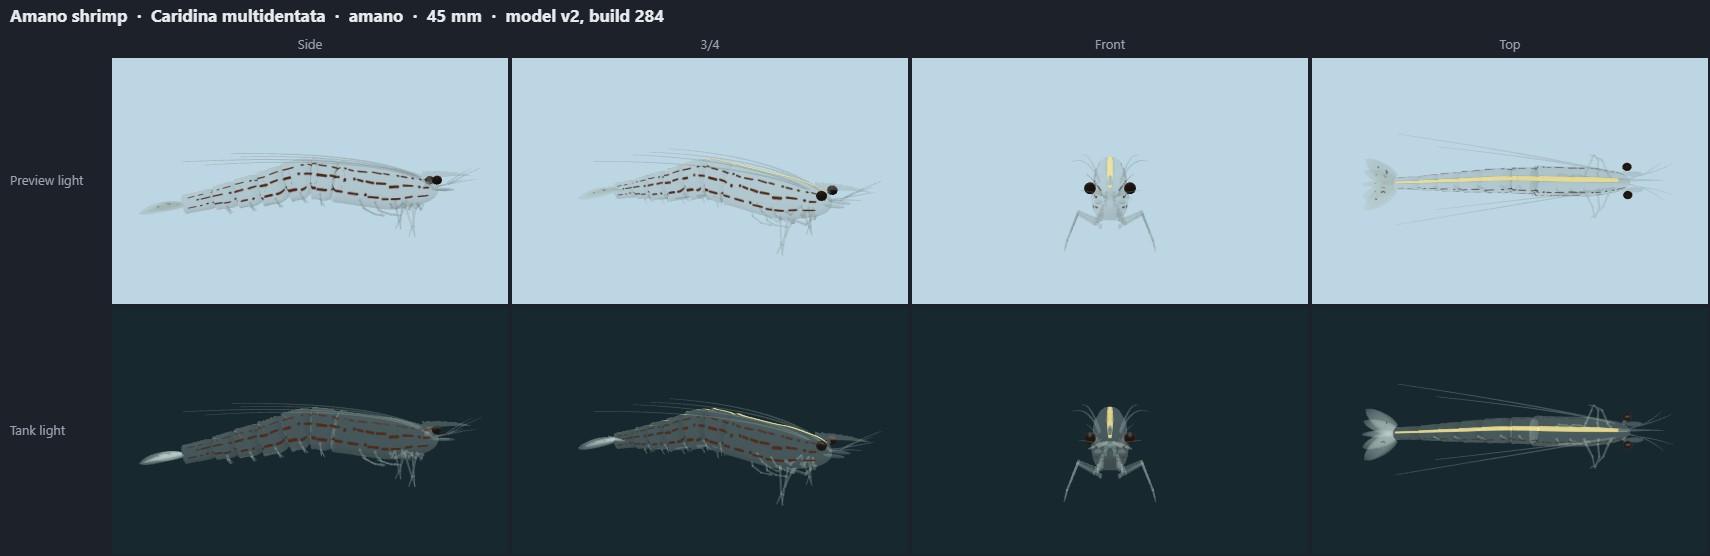
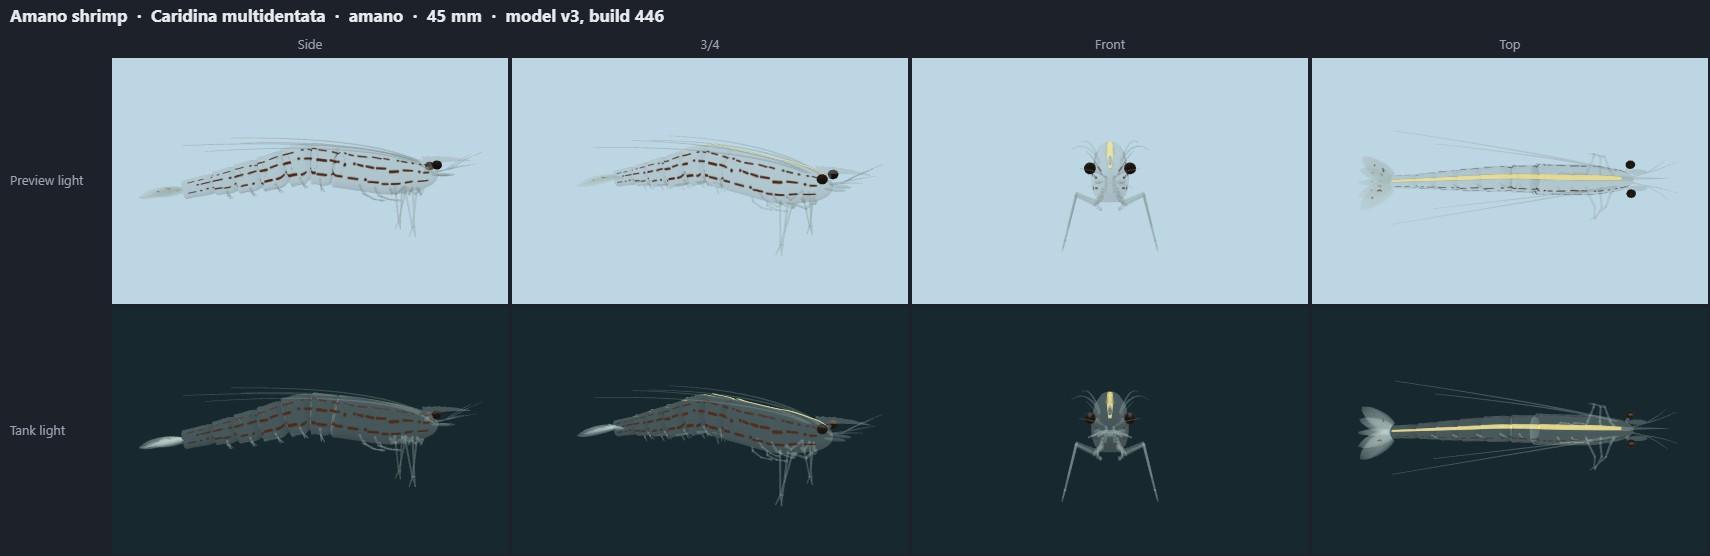
Shrimp stand up on their legs: per-species body lift (cherry 0.035, amano 0.045, cleaner 0.08 widths), walking legs reach down the extra; cleaner's legs splay wider (build 446)

diff --git a/public/model-sheets/index.html b/public/model-sheets/index.html
@@ -10,7 +10,7 @@ figure { margin: 8px 0 14px; padding: 8px; background: var(--panel); border-radi
 img { display: block; max-width: 100%; height: auto }
 </style></head><body>
 <h1>Model sheets</h1>
-<p>Pre-rendered review images of every TankLook animal model (no WebGL needed): 71 models, 58 species, written at build 435.
+<p>Pre-rendered review images of every TankLook animal model (no WebGL needed): 71 models, 58 species, written at build 446.
 Each sheet shows the Side, 3/4, Front, Top views; top row in the plain preview light, bottom row at true size in the default tank's LED light and water.
 Click a sheet for the full-size image (1710 × 556 px). Interactive version: <a href="../review.html">review.html</a>.</p>
 <h2>Freshwater fish</h2>
@@ -62,8 +62,8 @@ Click a sheet for the full-size image (1710 × 556 px). Interactive version: <a 
 <figure id="peapuffer"><figcaption><b>Pea puffer ♂</b> · <i>Carinotetraodon travancoricus</i> · peapuffer · 30 mm · model v2 (build 351, 2026-10-14)</figcaption><a href="peapuffer.jpg"><img src="peapuffer.jpg" width="1710" height="556" loading="lazy" alt="Pea puffer ♂ (Carinotetraodon travancoricus), model v2: Side, 3/4, Front, Top views, preview light (top row) and tank light (bottom row)"></a></figure>
 <figure id="peapuffer-f"><figcaption><b>Pea puffer ♀</b> · <i>Carinotetraodon travancoricus</i> · peapuffer~f · 30 mm · model v2 (build 351, 2026-10-14)</figcaption><a href="peapuffer-f.jpg"><img src="peapuffer-f.jpg" width="1710" height="556" loading="lazy" alt="Pea puffer ♀ (Carinotetraodon travancoricus), model v2: Side, 3/4, Front, Top views, preview light (top row) and tank light (bottom row)"></a></figure>
 <h2>Freshwater inverts</h2>
-<figure id="cherryshrimp"><figcaption><b>Cherry shrimp</b> · <i>Neocaridina davidi</i> · cherryshrimp · 30 mm · model v2 (build 284, 2026-10-14)</figcaption><a href="cherryshrimp.jpg"><img src="cherryshrimp.jpg" width="1710" height="556" loading="lazy" alt="Cherry shrimp (Neocaridina davidi), model v2: Side, 3/4, Front, Top views, preview light (top row) and tank light (bottom row)"></a></figure>
-<figure id="amano"><figcaption><b>Amano shrimp</b> · <i>Caridina multidentata</i> · amano · 45 mm · model v2 (build 284, 2026-10-14)</figcaption><a href="amano.jpg"><img src="amano.jpg" width="1710" height="556" loading="lazy" alt="Amano shrimp (Caridina multidentata), model v2: Side, 3/4, Front, Top views, preview light (top row) and tank light (bottom row)"></a></figure>
+<figure id="cherryshrimp"><figcaption><b>Cherry shrimp</b> · <i>Neocaridina davidi</i> · cherryshrimp · 30 mm · model v3 (build 446, 2026-10-15)</figcaption><a href="cherryshrimp.jpg"><img src="cherryshrimp.jpg" width="1710" height="556" loading="lazy" alt="Cherry shrimp (Neocaridina davidi), model v3: Side, 3/4, Front, Top views, preview light (top row) and tank light (bottom row)"></a></figure>
+<figure id="amano"><figcaption><b>Amano shrimp</b> · <i>Caridina multidentata</i> · amano · 45 mm · model v3 (build 446, 2026-10-15)</figcaption><a href="amano.jpg"><img src="amano.jpg" width="1710" height="556" loading="lazy" alt="Amano shrimp (Caridina multidentata), model v3: Side, 3/4, Front, Top views, preview light (top row) and tank light (bottom row)"></a></figure>
 <figure id="nerite"><figcaption><b>Nerite snail (zebra)</b> · <i>Neritina natalensis</i> · nerite · 25 mm · model v3 (build 317, 2026-10-14)</figcaption><a href="nerite.jpg"><img src="nerite.jpg" width="1710" height="556" loading="lazy" alt="Nerite snail (zebra) (Neritina natalensis), model v3: Side, 3/4, Front, Top views, preview light (top row) and tank light (bottom row)"></a></figure>
 <figure id="mystery"><figcaption><b>Mystery snail</b> · <i>Pomacea diffusa</i> · mystery · 55 mm · model v2 (build 288, 2026-10-14)</figcaption><a href="mystery.jpg"><img src="mystery.jpg" width="1710" height="556" loading="lazy" alt="Mystery snail (Pomacea diffusa), model v2: Side, 3/4, Front, Top views, preview light (top row) and tank light (bottom row)"></a></figure>
 <figure id="ramshorn"><figcaption><b>Ramshorn snail</b> · <i>Planorbella duryi</i> · ramshorn · 20 mm · model v2 (build 288, 2026-10-14)</figcaption><a href="ramshorn.jpg"><img src="ramshorn.jpg" width="1710" height="556" loading="lazy" alt="Ramshorn snail (Planorbella duryi), model v2: Side, 3/4, Front, Top views, preview light (top row) and tank light (bottom row)"></a></figure>
@@ -79,7 +79,7 @@ Click a sheet for the full-size image (1710 × 556 px). Interactive version: <a 
 <figure id="coralbeauty"><figcaption><b>Coral beauty angelfish</b> · <i>Centropyge bispinosa</i> · coralbeauty · 90 mm · model v2 (build 348, 2026-10-14)</figcaption><a href="coralbeauty.jpg"><img src="coralbeauty.jpg" width="1710" height="556" loading="lazy" alt="Coral beauty angelfish (Centropyge bispinosa), model v2: Side, 3/4, Front, Top views, preview light (top row) and tank light (bottom row)"></a></figure>
 <figure id="watchman"><figcaption><b>Yellow watchman goby</b> · <i>Cryptocentrus cinctus</i> · watchman · 90 mm · model v2 (build 348, 2026-10-14)</figcaption><a href="watchman.jpg"><img src="watchman.jpg" width="1710" height="556" loading="lazy" alt="Yellow watchman goby (Cryptocentrus cinctus), model v2: Side, 3/4, Front, Top views, preview light (top row) and tank light (bottom row)"></a></figure>
 <h2>Saltwater inverts</h2>
-<figure id="cleanershrimp"><figcaption><b>Skunk cleaner shrimp</b> · <i>Lysmata amboinensis</i> · cleanershrimp · 55 mm · model v2 (build 284, 2026-10-14)</figcaption><a href="cleanershrimp.jpg"><img src="cleanershrimp.jpg" width="1710" height="556" loading="lazy" alt="Skunk cleaner shrimp (Lysmata amboinensis), model v2: Side, 3/4, Front, Top views, preview light (top row) and tank light (bottom row)"></a></figure>
+<figure id="cleanershrimp"><figcaption><b>Skunk cleaner shrimp</b> · <i>Lysmata amboinensis</i> · cleanershrimp · 55 mm · model v3 (build 446, 2026-10-15)</figcaption><a href="cleanershrimp.jpg"><img src="cleanershrimp.jpg" width="1710" height="556" loading="lazy" alt="Skunk cleaner shrimp (Lysmata amboinensis), model v3: Side, 3/4, Front, Top views, preview light (top row) and tank light (bottom row)"></a></figure>
 <figure id="turbo"><figcaption><b>Mexican turbo snail</b> · <i>Turbo fluctuosus</i> · turbo · 50 mm · model v2 (build 288, 2026-10-14)</figcaption><a href="turbo.jpg"><img src="turbo.jpg" width="1710" height="556" loading="lazy" alt="Mexican turbo snail (Turbo fluctuosus), model v2: Side, 3/4, Front, Top views, preview light (top row) and tank light (bottom row)"></a></figure>
 <figure id="hermit"><figcaption><b>Blue-leg hermit crab</b> · <i>Clibanarius tricolor</i> · hermit · 30 mm · model v3 (build 297, 2026-10-14)</figcaption><a href="hermit.jpg"><img src="hermit.jpg" width="1710" height="556" loading="lazy" alt="Blue-leg hermit crab (Clibanarius tricolor), model v3: Side, 3/4, Front, Top views, preview light (top row) and tank light (bottom row)"></a></figure>
 <h2>Amphibians</h2>

diff --git a/src/art/shrimps.ts b/src/art/shrimps.ts
@@ -11,6 +11,7 @@ export interface Shrimp3D {
   hump: number;   // abdominal bend: 0 straight .. 1 strongly arched with the tail carried low (cleaner)
   deep: number;   // body depth x the default
   legL: number;   // walking-leg spread x the default (long, stilted legs > 1)
+  stand: number;  // body carried this far (widths) above the default ride height on longer legs
   ant: number;    // antenna length x the default
   glass?: number; // body and limb opacity (translucent shrimp)
   leg: string; antC: string; eye: string;
@@ -46,7 +47,7 @@ function blade(x: CanvasRenderingContext2D, W: number, H: number, c: string, a: 
 export const SHRIMP3D: Record<string, Shrimp3D> = {
   // cherry shrimp (Neocaridina davidi, red): solid deep red, a little paler and clearer low on the flanks, mottled
   cherryshrimp: {
-    rost: 0.085, up: 0.004, hump: 0.45, deep: 1, legL: 1, ant: 1, leg: '#b02a2c', antC: '#a03030', eye: '#140c0a',
+    rost: 0.085, up: 0.004, hump: 0.45, deep: 1, legL: 1, stand: 0.035, ant: 1, leg: '#b02a2c', antC: '#a03030', eye: '#140c0a',
     skin: (x, W, H) => {
       bands(x, W, H, [[0, '#9a161c'], [0.35, '#b8242a'], [0.75, '#cc3c40'], [1, '#d65a5c']]);
       mottle(x, W, H, 31, 260, 5, ['#8a1218', '#d8484c', '#e06a66'], 0.25);
@@ -56,7 +57,7 @@ export const SHRIMP3D: Record<string, Shrimp3D> = {
   // Amano (Caridina multidentata): a translucent grey-green glass body, a pale line down the back and rows of broken
   // red-brown dashes and dots along the flanks
   amano: {
-    rost: 0.1, up: 0.012, hump: 0.4, deep: 0.92, legL: 1, ant: 1.05, glass: 0.32, leg: '#8a9694', antC: '#7a8684', eye: '#18120e',
+    rost: 0.1, up: 0.012, hump: 0.4, deep: 0.92, legL: 1.05, stand: 0.045, ant: 1.05, glass: 0.32, leg: '#8a9694', antC: '#7a8684', eye: '#18120e',
     skin: (x, W, H) => bands(x, W, H, [[0, '#7e8a88'], [0.5, '#98a4a2'], [1, '#b0b8b4']]),
     marks: (x, W, H) => {
       const R = rng(7);
@@ -79,7 +80,7 @@ export const SHRIMP3D: Record<string, Shrimp3D> = {
   // broad red band each side of it, yellow-orange flanks; long white antennae; red tail fan with white spots; the
   // abdomen arched, the tail carried low
   cleanershrimp: {
-    rost: 0.07, up: 0.006, hump: 1, deep: 1.05, legL: 1.2, ant: 1.35, leg: '#e0603a', antC: '#f4f2ea', eye: '#120c0a',
+    rost: 0.07, up: 0.006, hump: 1, deep: 1.05, legL: 1.3, stand: 0.08, ant: 1.35, leg: '#e0603a', antC: '#f4f2ea', eye: '#120c0a',
     skin: (x, W, H) => {
       bands(x, W, H, [[0, '#f6f4ee'], [0.05, '#f6f4ee'], [0.075, '#c42a20'], [0.38, '#c8281e'], [0.5, '#e08a30'], [0.62, '#eca838'], [1, '#f2be58']]);
       mottle(x, W, H, 41, 120, 4, ['#d8a040', '#f0c060'], 0.2);

diff --git a/src/render/shrimp3d.ts b/src/render/shrimp3d.ts
@@ -4,7 +4,8 @@
 // stalked eyes, antennules and long antennae; five pairs of jointed walking legs under the carapace (the first two
 // small, carried forward), five pairs of small biramous swimmerets under the abdomen; and a flat tail fan (telson and
 // two uropods each side) spread horizontally. Species data and paint: art/shrimps.ts. Unit frame as a fish card:
-// width 1, x = u - 0.5 (head at +x, the rostrum tip at x = 0.5), y up, z to the side; the legs stand on y = -REST.
+// width 1, x = u - 0.5 (head at +x, the rostrum tip at x = 0.5), y up, z to the side; the legs stand on y = -REST,
+// the body carried s.stand above its default ride height (the legs reach down the extra).
 import * as THREE from 'three';
 import { mergeGeometries } from 'three/examples/jsm/utils/BufferGeometryUtils.js';
 import { SHRIMP3D, type Shrimp3D } from '../art/shrimps';
@@ -169,7 +170,7 @@ function jointed(pts: THREE.Vector3[], r: number[]) {
 
 /** The + side's legs and swimmerets (one geometry; the far side is the mirror). */
 function legGeometry(s: Shrimp3D) {
-  const sp = spine(s), G = -REST, L = s.legL, parts: THREE.BufferGeometry[] = [];
+  const sp = spine(s), G = -REST - s.stand, L = s.legL, parts: THREE.BufferGeometry[] = [];
   // five pairs of walking legs (pereiopods) under the carapace, front to rear
   [0.3, 0.24, 0.18, 0.12, 0.065].forEach((t, i) => {
     const f = sp.at(t), y0 = f.c.y - HV * s.deep * 0.75, x0 = f.c.x, b = V(x0, y0, 0.02);
@@ -280,6 +281,7 @@ export function shrimpBody(art: string, w: number) {
     const st = new THREE.Mesh(stalk, lm); st.scale.z = side; grp.add(st);
     const e = new THREE.Mesh(ball, em); e.scale.set(eyeR * 1.1, eyeR, eyeR); e.position.copy(f.c).add(V(0.009, 0.028, side * (0.038 + eyeR * 0.55))); grp.add(e);
   }
+  for (const o of grp.children) o.position.y += s.stand; // body up on its legs; the feet (at -REST - stand) land on -REST
   grp.scale.setScalar(w);
   return grp;
 }
